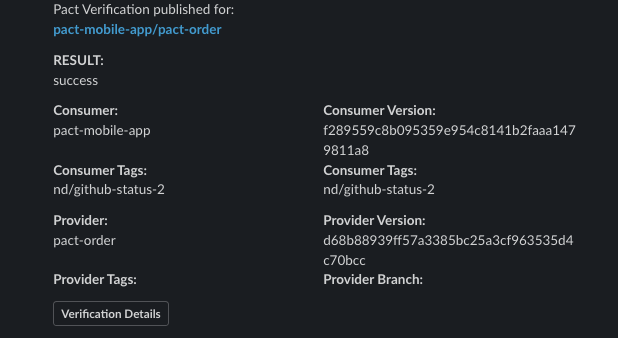
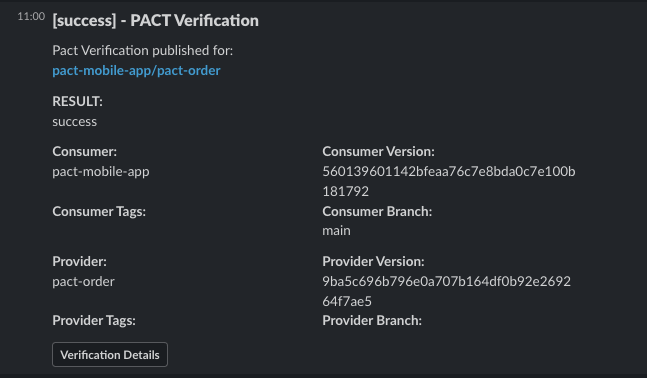
Improve slack webhooks

diff --git a/slack.md b/slack.md
@@ -1,33 +1,75 @@
 ## Slack
 
-### Incoming-Webhooks
+## Incoming-Webhooks
 Create a new emoji in slack for `:pactflow:`
 
-#### New contract published:
+### New contract published:
 ```
 pact-broker create-webhook \
-  'https://hooks.slack.com/services/[WEBHOOK_ID]' \
+  'https://hooks.slack.com/services/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' \
   -X POST \
   -H "Content-Type: application/json" \
-  -d '{"icon_emoji":":pactflow:","username":"pactflow","blocks":[{"type":"header","text":{"type":"plain_text","text":"PACT contract published","emoji":true}},{"type":"section","text":{"type":"mrkdwn","text":"New pact contract or version published:\n*<${pactbroker.pactUrl}|${pactbroker.consumerName}/${pactbroker.providerName}>*"}},{"type":"section","fields":[{"type":"mrkdwn","text":"*Consumer:*\n${pactbroker.consumerName}"},{"type":"mrkdwn","text":"*Consumer Version:*\n${pactbroker.consumerVersionNumber}"},{"type":"mrkdwn","text":"*Consumer Tags:*\n${pactbroker.consumerVersionTags}"},{"type":"mrkdwn","text":"*Consumer Branch:*\n${pactbroker.consumerVersionBranch}"}]},{"type":"section","fields":[{"type":"mrkdwn","text":"*Provider:*\n${pactbroker.providerName}"},{"type":"mrkdwn","text":"*Provider Version:*\n${pactbroker.providerVersionNumber}"},{"type":"mrkdwn","text":"*Provider Tags:*\n${pactbroker.providerVersionTags}"},{"type":"mrkdwn","text":"*Provider Branch:*\n${pactbroker.providerVersionBranch}"}]},{"type":"actions","elements":[{"type":"button","text":{"type":"plain_text","emoji":true,"text":"Contract Details"},"url":"${pactbroker.pactUrl}"}]}]}' \
-  --description "Slack - contract-published" \
+  -d '{"icon_emoji":":pactflow:","username":"pactflow","blocks":[{"type":"header","text":{"type":"plain_text","text":"PACT contract published","emoji":true}},{"type":"section","text":{"type":"mrkdwn","text":"New pact contract or version published:\n*<${pactbroker.pactUrl}|${pactbroker.consumerName}/${pactbroker.providerName}>*"},"accessory":{"type":"image","image_url":"https://media.giphy.com/media/3orieWNnUuuFa0y1NK/giphy.gif","alt_text":"New Contract thumbnail"}},{"type":"section","fields":[{"type":"mrkdwn","text":"*Consumer:*\n${pactbroker.consumerName}"},{"type":"mrkdwn","text":"*Consumer Version:*\n${pactbroker.consumerVersionNumber}"},{"type":"mrkdwn","text":"*Consumer Tags:*\n${pactbroker.consumerVersionTags}"},{"type":"mrkdwn","text":"*Consumer Branch:*\n${pactbroker.consumerVersionBranch}"}]},{"type":"section","fields":[{"type":"mrkdwn","text":"*Provider:*\n${pactbroker.providerName}"},{"type":"mrkdwn","text":"*Provider Version:*\n${pactbroker.providerVersionNumber}"},{"type":"mrkdwn","text":"*Provider Tags:*\n${pactbroker.providerVersionTags}"},{"type":"mrkdwn","text":"*Provider Branch:*\n${pactbroker.providerVersionBranch}"}]},{"type":"actions","elements":[{"type":"button","text":{"type":"plain_text","emoji":true,"text":"Contract Details"},"url":"${pactbroker.pactUrl}"}]}]}' \
+  --description "Slack - Contract Published" \
   --contract-published 
  ```  
 
 ![Pact Published](pact-published-slack.png "Pact Published")
 
-#### Provider Verification Published:
+<br />
+
+### Provider Verification Published (Any status):
 ```
 pact-broker create-webhook \
-  'https://hooks.slack.com/services/[WEBHOOK_ID]' \
+  'https://hooks.slack.com/services/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' \
   -X POST \
   -H "Content-Type: application/json" \
   -d '{"icon_emoji":":pactflow:","username":"pactflow","blocks":[{"type":"header","text":{"type":"plain_text","text":"[${pactbroker.githubVerificationStatus}] - PACT Verification","emoji":true}},{"type":"section","text":{"type":"mrkdwn","text":"Pact Verification published for:\n*<${pactbroker.verificationResultUrl}| ${pactbroker.consumerName}/${pactbroker.providerName}>*"}},{"type":"section","fields":[{"type":"mrkdwn","text":"*RESULT:*\n${pactbroker.githubVerificationStatus}"}]},{"type":"section","fields":[{"type":"mrkdwn","text":"*Consumer:*\n${pactbroker.consumerName}"},{"type":"mrkdwn","text":"*Consumer Version:*\n${pactbroker.consumerVersionNumber}"},{"type":"mrkdwn","text":"*Consumer Tags:*\n${pactbroker.consumerVersionTags}"},{"type":"mrkdwn","text":"*Consumer Branch:*\n${pactbroker.consumerVersionBranch}"}]},{"type":"section","fields":[{"type":"mrkdwn","text":"*Provider:*\n${pactbroker.providerName}"},{"type":"mrkdwn","text":"*Provider Version:*\n${pactbroker.providerVersionNumber}"},{"type":"mrkdwn","text":"*Provider Tags:*\n${pactbroker.providerVersionTags}"},{"type":"mrkdwn","text":"*Provider Branch:*\n${pactbroker.providerVersionBranch}"}]},{"type":"actions","elements":[{"type":"button","text":{"type":"plain_text","emoji":true,"text":"Verification Details"},"url":"${pactbroker.verificationResultUrl}"}]}]}' \
-  --description "Slack - provider-verification-published " \
+  --description "Slack - Provider Verification Published (Any status)" \
   --provider-verification-published 
- ```  
+ ```
 
 ![Pact Verification](pact-verification-slack.png "Pact Verification")
 
-#### FAILED Provided Verification Published:
-**TODO**
+<br />
+
+### Provider Verification Published (SUCCESS):
+```
+pact-broker create-webhook \
+  'https://hooks.slack.com/services/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' \
+  -X POST \
+  -H "Content-Type: application/json" \
+  -d '{"icon_emoji":":pactflow:","username":"pactflow","blocks":[{"type":"header","text":{"type":"plain_text","text":"[SUCCESS] - PACT Verification","emoji":true}},{"type":"section","text":{"type":"mrkdwn","text":"Pact Verification published for:\n*<${pactbroker.verificationResultUrl}| ${pactbroker.consumerName}/${pactbroker.providerName}>*"},"accessory":{"type":"image","image_url":"https://media.giphy.com/media/xT5LMQ8rHYTDGFG07e/giphy.gif","alt_text":"SUCCESS thumbnail"}},{"type":"section","fields":[{"type":"mrkdwn","text":"*RESULT:*\n${pactbroker.githubVerificationStatus}"}]},{"type":"section","fields":[{"type":"mrkdwn","text":"*Consumer:*\n${pactbroker.consumerName}"},{"type":"mrkdwn","text":"*Consumer Version:*\n${pactbroker.consumerVersionNumber}"},{"type":"mrkdwn","text":"*Consumer Tags:*\n${pactbroker.consumerVersionTags}"},{"type":"mrkdwn","text":"*Consumer Branch:*\n${pactbroker.consumerVersionBranch}"}]},{"type":"section","fields":[{"type":"mrkdwn","text":"*Provider:*\n${pactbroker.providerName}"},{"type":"mrkdwn","text":"*Provider Version:*\n${pactbroker.providerVersionNumber}"},{"type":"mrkdwn","text":"*Provider Tags:*\n${pactbroker.providerVersionTags}"},{"type":"mrkdwn","text":"*Provider Branch:*\n${pactbroker.providerVersionBranch}"}]},{"type":"actions","elements":[{"type":"button","text":{"type":"plain_text","emoji":true,"text":"Verification Details"},"url":"${pactbroker.verificationResultUrl}"}]}]}' \
+  --description "Slack - Provider Verification Published (SUCCESS)" \
+  --provider-verification-succeeded
+ ```  
+
+![Pact Verification Success](pact-verification-success-slack.png "Pact Verification Success")
+
+<br />
+
+### Provider Verification Published (FAILURE):
+```
+pact-broker create-webhook \
+  'https://hooks.slack.com/services/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' \
+  -X POST \
+  -H "Content-Type: application/json" \
+  -d '{"icon_emoji":":pactflow:","username":"pactflow","blocks":[{"type":"header","text":{"type":"plain_text","text":"[FAILURE] - PACT Verification","emoji":true}},{"type":"section","text":{"type":"mrkdwn","text":"Pact Verification published for:\n*<${pactbroker.verificationResultUrl}| ${pactbroker.consumerName}/${pactbroker.providerName}>*"},"accessory":{"type":"image","image_url":"https://media.giphy.com/media/3oriffFY6J66Fkrjc4/giphy.gif","alt_text":"FAILURE thumbnail"}},{"type":"section","fields":[{"type":"mrkdwn","text":"*RESULT:*\n${pactbroker.githubVerificationStatus}"}]},{"type":"section","fields":[{"type":"mrkdwn","text":"*Consumer:*\n${pactbroker.consumerName}"},{"type":"mrkdwn","text":"*Consumer Version:*\n${pactbroker.consumerVersionNumber}"},{"type":"mrkdwn","text":"*Consumer Tags:*\n${pactbroker.consumerVersionTags}"},{"type":"mrkdwn","text":"*Consumer Branch:*\n${pactbroker.consumerVersionBranch}"}]},{"type":"section","fields":[{"type":"mrkdwn","text":"*Provider:*\n${pactbroker.providerName}"},{"type":"mrkdwn","text":"*Provider Version:*\n${pactbroker.providerVersionNumber}"},{"type":"mrkdwn","text":"*Provider Tags:*\n${pactbroker.providerVersionTags}"},{"type":"mrkdwn","text":"*Provider Branch:*\n${pactbroker.providerVersionBranch}"}]},{"type":"actions","elements":[{"type":"button","text":{"type":"plain_text","emoji":true,"text":"Verification Details"},"url":"${pactbroker.verificationResultUrl}"}]}]}' \
+  --description "Slack - Provider Verification Published (FAILURE)" \
+  --provider-verification-failed
+ ```  
+![Pact Verification Failure](pact-verification-failure-slack.png "Pact Verification Failure")
+
+<br /> 
+
+### VERIFICATION Required
+```
+pact-broker create-webhook \
+  'https://hooks.slack.com/services/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' \
+  -X POST \
+  -H "Content-Type: application/json" \
+  -d '{"icon_emoji":":pactflow:","username":"pactflow","blocks":[{"type":"header","text":{"type":"plain_text","text":"[VERIFICATION REQUIRED] - PACT Verification","emoji":true}},{"type":"section","text":{"type":"mrkdwn","text":"Pact Verification required for:\n*<${pactbroker.pactUrl}| ${pactbroker.consumerName}/${pactbroker.providerName}>*"},"accessory":{"type":"image","image_url":"https://media.giphy.com/media/26BGIqWh2R1fi6JDa/giphy.gif","alt_text":"VERIFICATION thumbnail"}},{"type":"section","fields":[{"type":"mrkdwn","text":"*Consumer:*\n${pactbroker.consumerName}"},{"type":"mrkdwn","text":"*Consumer Version:*\n${pactbroker.consumerVersionNumber}"},{"type":"mrkdwn","text":"*Consumer Tags:*\n${pactbroker.consumerVersionTags}"},{"type":"mrkdwn","text":"*Consumer Branch:*\n${pactbroker.consumerVersionBranch}"}]},{"type":"section","fields":[{"type":"mrkdwn","text":"*Provider:*\n${pactbroker.providerName}"},{"type":"mrkdwn","text":"*Provider Version:*\n${pactbroker.providerVersionNumber}"},{"type":"mrkdwn","text":"*Provider Tags:*\n${pactbroker.providerVersionTags}"},{"type":"mrkdwn","text":"*Provider Branch:*\n${pactbroker.providerVersionBranch}"}]},{"type":"actions","elements":[{"type":"button","text":{"type":"plain_text","emoji":true,"text":"Contract Details"},"url":"${pactbroker.pactUrl}"}]}]}' \
+  --description "Slack - VERIFICATION REQUIRED" \
+  --contract-requiring-verification-published
+ ```
+![Pact Verification Required](pact-verification-required-slack.png "Pact Verification Required")
